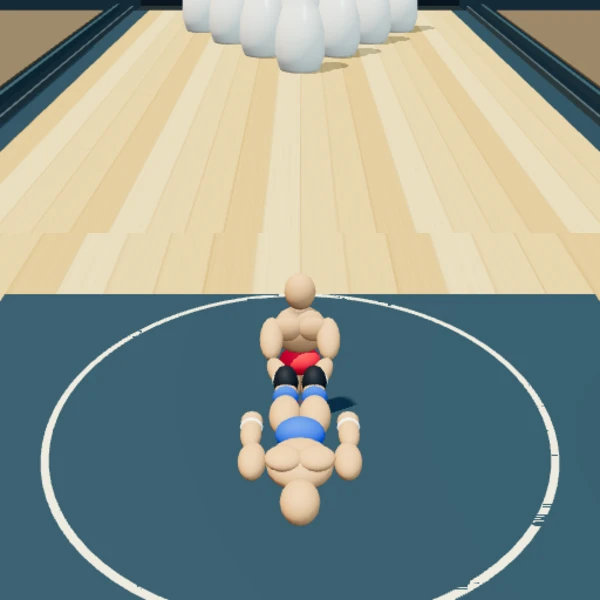
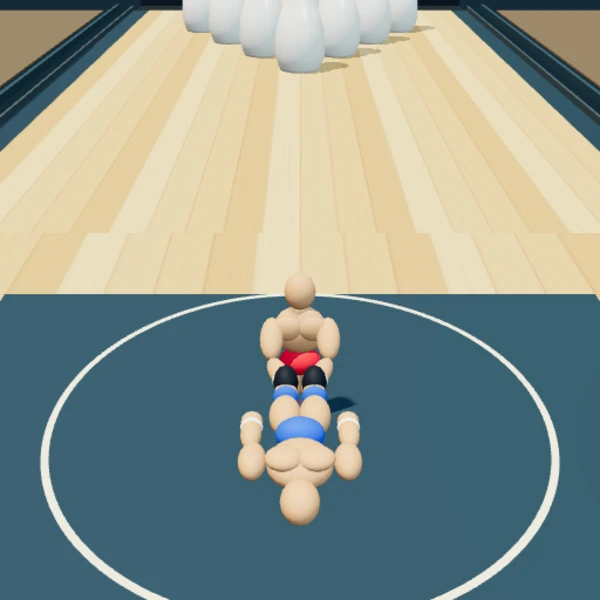
リングの線と床の深度競合によるちらつきを修正

diff --git a/games/_random-bowling/scene.js b/games/_random-bowling/scene.js
@@ -42,7 +42,9 @@ var ZWrestleScene=(function(){
     }
 
     box(0,-.14,-1,12,.3,10,mat('#233e4c',.8));
-    var ring=new T.Mesh(new T.RingGeometry(3.9,4.02,80),mat('#e9d7b1',.7));ring.rotation.x=-Math.PI/2;ring.position.y=.01;this.scene.add(ring);
+    // 床上面は高さ0.01。線を少し離し、同じ深度で競合させない。
+    var ringMaterial=mat('#e9d7b1',.7);ringMaterial.polygonOffset=true;ringMaterial.polygonOffsetFactor=-1;ringMaterial.polygonOffsetUnits=-1;
+    var ring=new T.Mesh(new T.RingGeometry(3.9,4.02,128),ringMaterial);ring.rotation.x=-Math.PI/2;ring.position.y=.025;this.scene.add(ring);
     this.red=this.makeWrestler('#df2437');this.blue=this.makeWrestler('#2466e7');this.modelReady=false;
     function geometry(d){var g=new T.BufferGeometry();g.setAttribute('position',new T.Float32BufferAttribute(d.position,3));g.setAttribute('normal',new T.Float32BufferAttribute(d.normal,3));return g;}
     Promise.all([fetch('models.json').then(function(r){return r.json();}),fetch('wrestlers.json').then(function(r){return r.json();})]).then(function(data){
